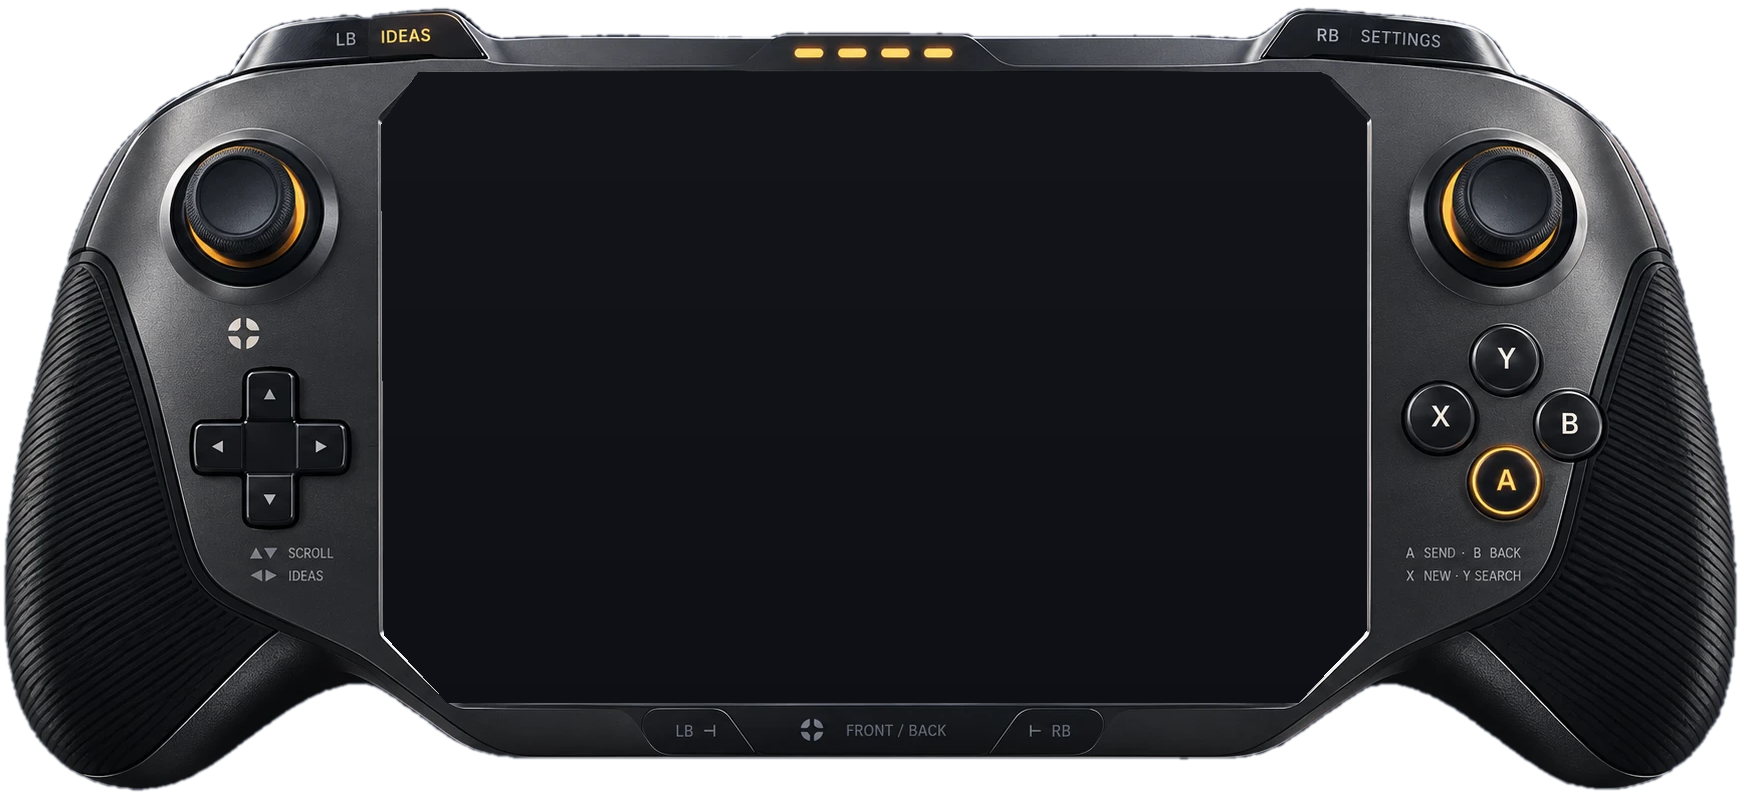
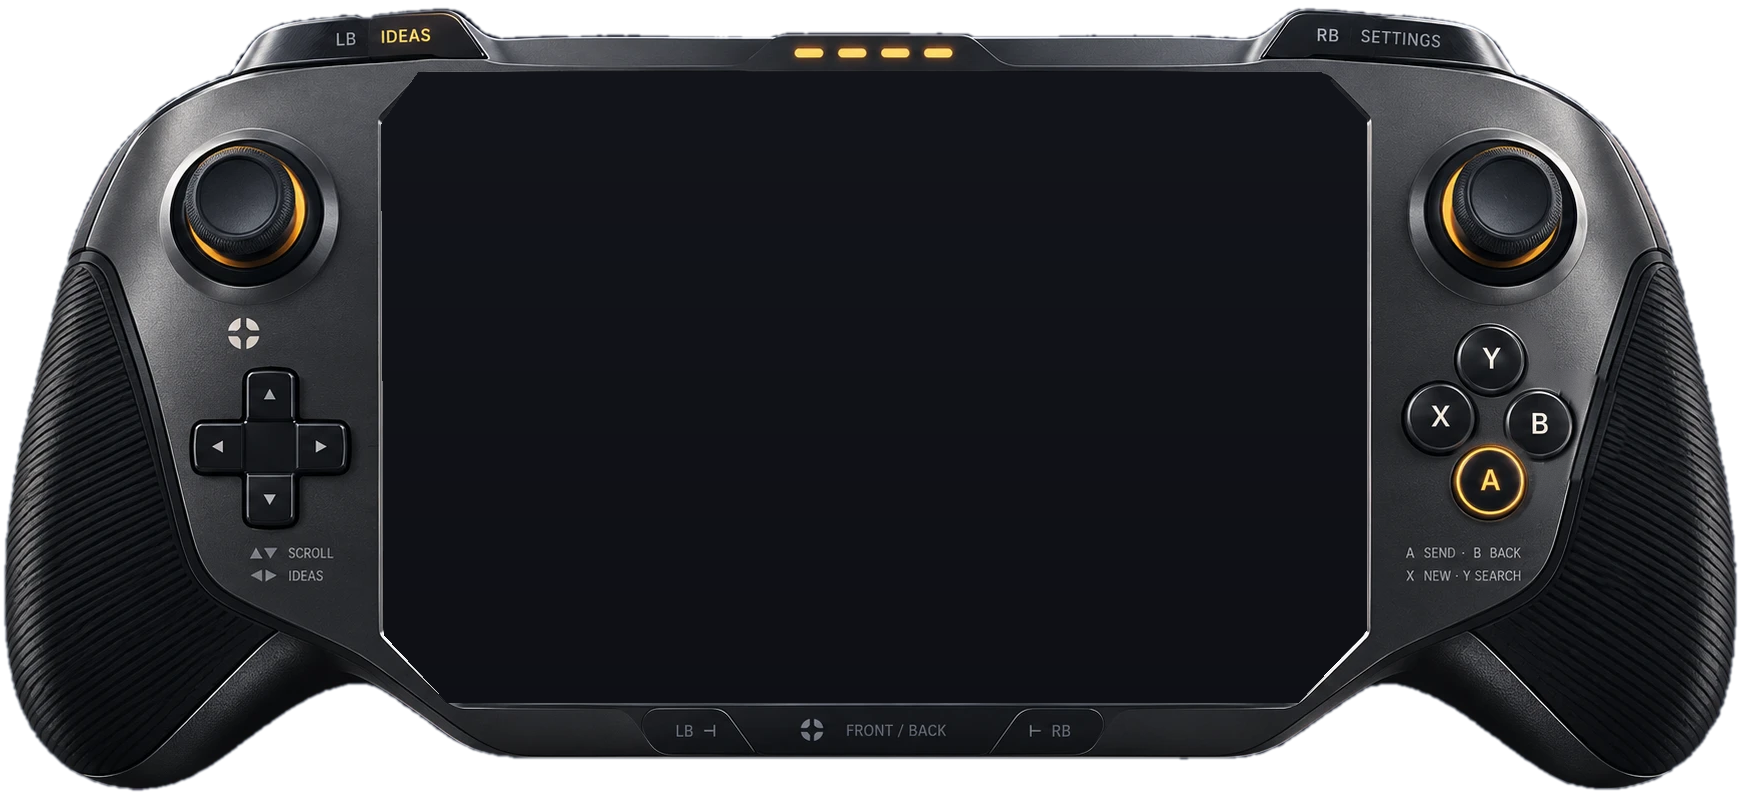
Agent controller: B no longer overhangs the grip, and each eye sits in the centre of its stick
The face buttons are drawn pulled in (X stays, Y and A 15 px, B 30 px) with the grip seam rebuilt behind B, and their hit targets moved with them. The eyes were 10 to 18 px off their sticks' dishes; they now sit at the dish centres measured on the art.

Changed region(s): [[0.8069, 0.4062, 0.931, 0.6562]]

diff --git a/desktop-dotnet/X20Ctl.Product/Agent/AgentPanel.cs b/desktop-dotnet/X20Ctl.Product/Agent/AgentPanel.cs
@@ -129,7 +129,7 @@ public sealed class AgentPanel
     /// (owner's sketch, 13 Oct); its screen follows the owner's design of 19 Oct: a rail, a header, topic pills and the chat.</summary>
     public const double DesignWidth = 1740, DesignHeight = 800;
     // the art's own places: the display, the stick caps, the D-pad's centre
-    const double ScreenZoom = 1.2, ScreenX = 382, ScreenY = 71, LeftX = 247, RightX = 1499, EyeY = 214, PadX = 270, PadY = 446;
+    const double ScreenZoom = 1.2, ScreenX = 382, ScreenY = 71, LeftX = 238, RightX = 1510, EyeY = 196, PadX = 270, PadY = 446;
 
     public AgentPanel(string modelId, string controllerName, PcModeLink? link, Action<Button> register, int player = 0, Func<Action<string, int>, IDriftMeter>? meter = null, bool reducedMotion = false)
     {
@@ -284,7 +284,8 @@ public sealed class AgentPanel
         pad.Children.Add(ideasBumper); pad.Children.Add(settingsButton);
 
         // the sticks are its eyes
-        Eye(pad, LeftX, EyeY); Eye(pad, RightX, EyeY + 2);
+        // each eye at the centre of its stick's dish, measured on the art
+        Eye(pad, LeftX, EyeY); Eye(pad, RightX, EyeY - 2);
 
         // left: the D-pad scrolls the conversation, and steps through the ideas
         foreach (var (x, y, tip, act) in new (double, double, string, Action)[]
@@ -296,13 +297,14 @@ public sealed class AgentPanel
         })
             pad.Children.Add(Hit(PadX - 24 + x * 52, PadY - 24 + y * 52, 48, 48, 8, tip, act));
 
-        // right: the face buttons. A sends, B puts it away, X starts over, Y searches the ideas
+        // right: the face buttons, drawn pulled in so B clears the grip (owner, 19 Oct 2026). A sends, B puts it away, X starts
+        // over, Y searches the ideas
         foreach (var (letter, x, y, tip, act) in new (string, double, double, string, Action)[]
         {
-            ("Y", 1505, 359, "Search the ideas", () => { ShowView(View.Ideas); Search.Focus(); Search.SelectAll(); Look(Gaze.Ideas); }),
+            ("Y", 1490, 359, "Search the ideas", () => { ShowView(View.Ideas); Search.Focus(); Search.SelectAll(); Look(Gaze.Ideas); }),
             ("X", 1438, 417, "New conversation", Restart),
-            ("B", 1570, 426, "Put away", () => { if (SettingsOpen) ShowSettingsPage(false); else CloseRequested?.Invoke(); }),
-            ("A", 1506, 480, "Send", Send),
+            ("B", 1540, 424, "Put away", () => { if (SettingsOpen) ShowSettingsPage(false); else CloseRequested?.Invoke(); }),
+            ("A", 1490, 481, "Send", Send),
         })
         {
             var cap = Hit(x - 35, y - 35, 70, 70, 35, tip, act);
